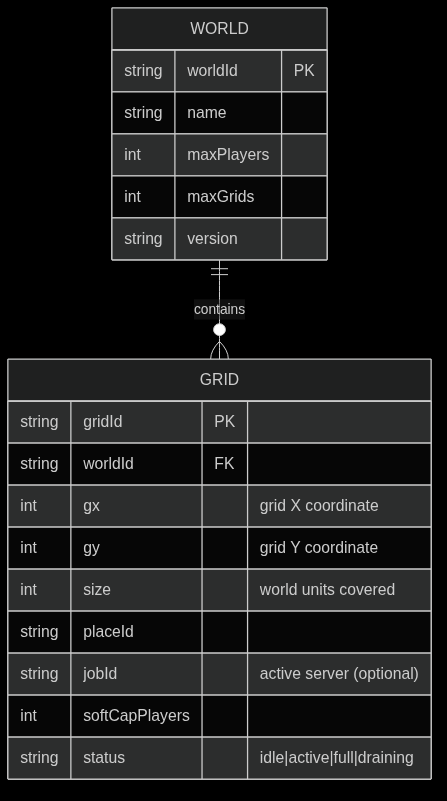
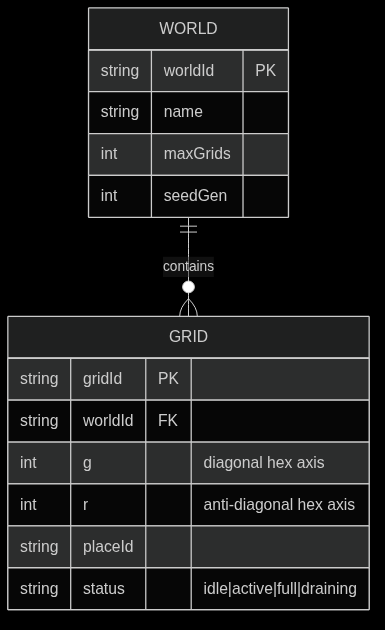
add: added region, document math involved
change: map -> math

add: hugo exported

diff --git a/src/public/posts/roblox-grid-based-server-sharding-with-instancing/index.html b/src/public/posts/roblox-grid-based-server-sharding-with-instancing/index.html
@@ -21,12 +21,14 @@ Technical Implementation
 
 Roblox API
 Basic World and Grids Model
-Region Spawning
+Data Store vs Memory Store
+Region
 
 
 
 
 
+Note: Post is In-Progress
 Motivation (Quick Bio-Story)
 I finally got my first part-time job (first ever) which is at The Coder School&rsquo;s Irvine location. My specialization as put on my resume would be coaching young students Roblox Scripting. It has been a while since I have done anything Roblox related (for more than 3 years). While I was away from Roblox, I developed much as a programmer because I learned general programming concepts, developing a web app, interacting with database, and now simultaneously trying to learn about microcontrollers because I want to touch embedded systems in the future. In the intermission between my first and second quarter at UC Irvine, I decided I wanted to implement a feature in Roblox, which would wash away the Roblox&rsquo;s rust so that I am able to fulfill my job well with ease. Beyond, that, I have a great idea for a Roblox game based on my favorite game on Roblox, Empire Clash.">
 <meta name="author" content="Vu Huy Minh Pham">
@@ -171,7 +173,7 @@ I finally got my first part-time job (first ever) which is at The Coder School&r
     <h1 class="post-title entry-hint-parent">
       Roblox Non-Layered Grid-Based Server Sharding
     </h1>
-    <div class="post-meta"><span title='2025-12-14 10:19:00 -0800 PST'>December 14, 2025</span>&nbsp;·&nbsp;5 min&nbsp;·&nbsp;Vu Huy Minh Pham
+    <div class="post-meta"><span title='2025-12-14 10:19:00 -0800 PST'>December 14, 2025</span>&nbsp;·&nbsp;8 min&nbsp;·&nbsp;Vu Huy Minh Pham
 
 </div>
   </header> 
@@ -189,12 +191,14 @@ I finally got my first part-time job (first ever) which is at The Coder School&r
 <ul>
 <li><a href="#roblox-api">Roblox API</a></li>
 <li><a href="#basic-world-and-grids-model">Basic World and Grids Model</a></li>
-<li><a href="#region-spawning">Region Spawning</a></li>
+<li><a href="#data-store-vs-memory-store">Data Store vs Memory Store</a></li>
+<li><a href="#region">Region</a></li>
 </ul>
 </li>
 </ul>
 </div>
 <!--endtoc-->
+<p>Note: Post is In-Progress</p>
 <h2 id="motivation--quick-bio-story">Motivation (Quick Bio-Story)<a hidden class="anchor" aria-hidden="true" href="#motivation--quick-bio-story">#</a></h2>
 <p>I finally got my first part-time job (first ever) which is at <em>The Coder School</em>&rsquo;s Irvine location. My specialization as put on my resume would be coaching young students Roblox Scripting. It has been a while since I have done anything Roblox related (for more than 3 years). While I was away from Roblox, I developed much as a programmer because I learned general programming concepts, developing a web app, interacting with database, and now simultaneously trying to learn about microcontrollers because I want to touch embedded systems in the future. In the intermission between my first and second quarter at UC Irvine, I decided I wanted to implement a feature in Roblox, which would wash away the Roblox&rsquo;s rust so that I am able to fulfill my job well with ease. Beyond, that, I have a great idea for a Roblox game based on my favorite game on Roblox, Empire Clash.</p>
 <h2 id="what-is-server-sharding">What is Server Sharding?<a hidden class="anchor" aria-hidden="true" href="#what-is-server-sharding">#</a></h2>
@@ -218,7 +222,7 @@ Note that even though Foxhole&rsquo;s has designated region zones, they are not 
 <h2 id="technical-implementation">Technical Implementation<a hidden class="anchor" aria-hidden="true" href="#technical-implementation">#</a></h2>
 <p>That was all talk, let&rsquo;s get to doing.</p>
 <h3 id="roblox-api">Roblox API<a hidden class="anchor" aria-hidden="true" href="#roblox-api">#</a></h3>
-<p>First, let us see what the Roblox Engine offers. Because we are going to be using multiple servers, <a href="https://create.roblox.com/docs/reference/engine/classes/TeleportService">TeleportService</a> has to be used. Furthermore, the nature of Roblox servers do not allow us to keep a server running for more than a week. Therefore, state must be preserved. To do that, we have to use <a href="https://create.roblox.com/docs/reference/engine/classes/DataStoreService">DataStoreService</a>. Persistent state has to store the grid position of the server, as well as storing the server&rsquo;s state later down the line (e.g. objects/landmarks placed down by players later).</p>
+<p>First, let us see what the Roblox Engine offers. Because we are going to be using multiple servers, <a href="https://create.roblox.com/docs/reference/engine/classes/TeleportService">TeleportService</a> has to be used. Furthermore, the nature of Roblox servers do not allow us to keep a server running for more than a week. Therefore, state must be preserved. To do that, we have to use <a href="https://create.roblox.com/docs/reference/engine/classes/DataStoreService">DataStoreService</a> for storing the server&rsquo;s state later down the line (e.g. objects/landmarks placed down by players later). Alongside DataStoreService, <a href="https://create.roblox.com/docs/cloud-services/memory-stores">MemoryStoreService</a> should also be used for cross server operations like storing grids as well as caching while the server is still running.</p>
 <h3 id="basic-world-and-grids-model">Basic World and Grids Model<a hidden class="anchor" aria-hidden="true" href="#basic-world-and-grids-model">#</a></h3>
 <p>This model assumes that the grids share the same place / code, only differeing in procedural generation and data saved. Physically, of course the World does not exist in the game, it is merely a conceptual classifier for a collection of regions with necessary properties stored. As for the regions they will have several properties needed to be stored in the data store.</p>
 <figure>
@@ -246,9 +250,120 @@ Note that even though Foxhole&rsquo;s has designated region zones, they are not 
 </ol>
 </li>
 </ul>
-<h3 id="region-spawning">Region Spawning<a hidden class="anchor" aria-hidden="true" href="#region-spawning">#</a></h3>
-<p>What if two players approach a new region grid? What if they create two different places? This is a classic race condition issue.</p>
-<p>This entry is still in progress. Come back later!</p>
+<h3 id="data-store-vs-memory-store">Data Store vs Memory Store<a hidden class="anchor" aria-hidden="true" href="#data-store-vs-memory-store">#</a></h3>
+<p>Data Store should only be updated very sparingly. Memory Store is used as caching for cross-server operations. They&rsquo;ll be used according to the design. So let&rsquo;s get started.</p>
+<h3 id="region">Region<a hidden class="anchor" aria-hidden="true" href="#region">#</a></h3>
+<p>What if two players approach a new region grid? What if they create two different places? This is a classic race condition issue. Well, in MemoryStore, we could create a sorted map to store regions that are locked.</p>
+<h4 id="task-list">Task List<a hidden class="anchor" aria-hidden="true" href="#task-list">#</a></h4>
+<p>This is where we get to implement world and region model. Here is a task list:</p>
+<ol>
+<li><input disabled="" type="checkbox"> DataStore → setup persisent values like worldID, gridID, gx, gy. These values shouldn&rsquo;t be updated regularly.</li>
+<li><input disabled="" type="checkbox"> MemoryStore → Region locking (preliminary setup)</li>
+<li><input disabled="" type="checkbox"> Implement region crossing math, get q and r in axial coordinates.</li>
+<li><input disabled="" type="checkbox"> From one region, make it so when the user goes to a certain bound approaching another grid, they ask to teleport and/or create that new grid.</li>
+<li><input disabled="" type="checkbox"> Pass the player&rsquo;s position put them at the position most sensible in the new region.</li>
+</ol>
+<h4 id="geometry">Geometry<a hidden class="anchor" aria-hidden="true" href="#geometry">#</a></h4>
+<p>This project will implement the hexagonal system that FoxHole has.</p>
+<ul>
+<li>q axis goes ↘ / ↖</li>
+<li>r axis goes ↙ / ↗</li>
+</ul>
+<p>Hence these the hexagon&rsquo;s neighbors:</p>
+<pre tabindex="0"><code class="language-nil" data-lang="nil">(q+1, r)
+(q+1, r-1)
+(q,   r-1)
+(q-1, r)
+(q-1, r+1)
+(q,   r+1)
+</code></pre><p>We are using the Axial Coordinates system to organize the different server regions:
+<img loading="lazy" src="/ox-hugo/hex-axial-coordinate-system.png">
+Knowing what region the player has crossed to will be a problem to be solved.</p>
+<h4 id="the-math-for-region-crossing">The Math for Region Crossing<a hidden class="anchor" aria-hidden="true" href="#the-math-for-region-crossing">#</a></h4>
+<p>Goal: We want to know whether the player has passed to another region or not (and hence they should be teleported). And as well for routing, we need to know the direction of crossing.</p>
+<p>Thankfully, a lot of this math can be generated by AI. Here are the steps I learned from prompt engineering:</p>
+<!--list-separator-->
+<ul>
+<li>
+<p>Step 1</p>
+<p>Converting player world position to fractional axis.</p>
+<p>Let \(s\) be the radius of each hexagonal grid.</p>
+<p>\(q_f = \frac{\sqrt{3}}{3} \frac{x}{s} - \frac{1}{3} \frac{z}{s}\)</p>
+<p>\(r_f = \frac{2}{3} \frac{z}{s}\)</p>
+</li>
+</ul>
+<!--list-separator-->
+<ul>
+<li>
+<p>Step 2</p>
+<p>Fractional axis → Fractional cube
+\(x_f = q_f\)</p>
+<p>\(z_f = r_f\)</p>
+<p>\(y_f = -x_f - z_f\)</p>
+<p>Such that: \(x_f + y_f + z_f = 0\)</p>
+</li>
+</ul>
+<!--list-separator-->
+<ul>
+<li>
+<p>Step 3</p>
+ <!--list-separator-->
+<ul>
+<li>
+<p>Cube rounding and constraint enforcing</p>
+<p>\(r_x = round(x_f)\),
+\(r_y = round(y_f)\),
+\(r_z = round(z_f)\)</p>
+</li>
+</ul>
+ <!--list-separator-->
+<ul>
+<li>
+<p>Our errors:</p>
+<p>\(d_x = |r_x - x_f|\),
+\(d_y = |r_y - y_f|\),
+\(d_z = |r_z - y_z|\)</p>
+</li>
+</ul>
+ <!--list-separator-->
+<ul>
+<li>
+<p>Constraint enforcement</p>
+<ul>
+<li>If \(d_x &gt; d_y\) and \(d_x &gt; d_z\): \(r_x = -r_y - r_z\)</li>
+<li>Else if \(d_y &gt; d_x\) and \(d_y &gt; d_z\): \(r_y = -r_x - r_z\)</li>
+<li>Else: \(r_z = -r_x - r_y\)</li>
+<li>This enforces the constraint: \(r_x + r_y + r_z = 0\)</li>
+</ul>
+</li>
+</ul>
+</li>
+</ul>
+<!--list-separator-->
+<ul>
+<li>
+<p>Step 4</p>
+<p>Cube → Axial
+We&rsquo;ll just drop the hidden axis:
+\(q = r_x\)
+\(r = r_z\)</p>
+</li>
+</ul>
+<!--list-separator-->
+<ul>
+<li>
+<p>Region Crossing Check</p>
+<p>Let world&rsquo;s region be \((0, 0)\).
+Player entered a new region if the one axial coordinate component from step 4 does not match 0.</p>
+</li>
+</ul>
+<!--list-separator-->
+<ul>
+<li>
+<p>Neighbor Delta</p>
+<p>The neighbor delta is the axial coordinate returned from step 4. Add neighbor delta to the current world&rsquo;s gridX, gridY and we&rsquo;ll get the new grid.</p>
+</li>
+</ul>
 
 
   </div>

diff --git a/src/public/posts/index.html b/src/public/posts/index.html
@@ -156,10 +156,11 @@
     </h2>
   </header>
   <div class="entry-content">
-    <p> Table of Contents Motivation (Quick Bio-Story) What is Server Sharding? Let’s Clarify Our Terms, Borrowing Foxhole’s What Kind of Game Can You Make on Roblox with Grid-Based Server Sharding? Technical Implementation Roblox API Basic World and Grids Model Region Spawning Motivation (Quick Bio-Story) I finally got my first part-time job (first ever) which is at The Coder School’s Irvine location. My specialization as put on my resume would be coaching young students Roblox Scripting. It has been a while since I have done anything Roblox related (for more than 3 years). While I was away from Roblox, I developed much as a programmer because I learned general programming concepts, developing a web app, interacting with database, and now simultaneously trying to learn about microcontrollers because I want to touch embedded systems in the future. In the intermission between my first and second quarter at UC Irvine, I decided I wanted to implement a feature in Roblox, which would wash away the Roblox’s rust so that I am able to fulfill my job well with ease. Beyond, that, I have a great idea for a Roblox game based on my favorite game on Roblox, Empire Clash.
+    <p> Table of Contents Motivation (Quick Bio-Story) What is Server Sharding? Let’s Clarify Our Terms, Borrowing Foxhole’s What Kind of Game Can You Make on Roblox with Grid-Based Server Sharding? Technical Implementation Roblox API Basic World and Grids Model Data Store vs Memory Store Region Note: Post is In-Progress
+Motivation (Quick Bio-Story) I finally got my first part-time job (first ever) which is at The Coder School’s Irvine location. My specialization as put on my resume would be coaching young students Roblox Scripting. It has been a while since I have done anything Roblox related (for more than 3 years). While I was away from Roblox, I developed much as a programmer because I learned general programming concepts, developing a web app, interacting with database, and now simultaneously trying to learn about microcontrollers because I want to touch embedded systems in the future. In the intermission between my first and second quarter at UC Irvine, I decided I wanted to implement a feature in Roblox, which would wash away the Roblox’s rust so that I am able to fulfill my job well with ease. Beyond, that, I have a great idea for a Roblox game based on my favorite game on Roblox, Empire Clash.
 ...</p>
   </div>
-  <footer class="entry-footer"><span title='2025-12-14 10:19:00 -0800 PST'>December 14, 2025</span>&nbsp;·&nbsp;5 min&nbsp;·&nbsp;Vu Huy Minh Pham</footer>
+  <footer class="entry-footer"><span title='2025-12-14 10:19:00 -0800 PST'>December 14, 2025</span>&nbsp;·&nbsp;8 min&nbsp;·&nbsp;Vu Huy Minh Pham</footer>
   <a class="entry-link" aria-label="post link to Roblox Non-Layered Grid-Based Server Sharding" href="http://localhost:1313/posts/roblox-grid-based-server-sharding-with-instancing/"></a>
 </article>
 

diff --git a/src/public/posts/my-ap-physics-ii-prep-2024/index.html b/src/public/posts/my-ap-physics-ii-prep-2024/index.html
@@ -231,7 +231,7 @@ I think I should attend the review session this weekend and just do a mock exam.
 <h2 id="units">Units<a hidden class="anchor" aria-hidden="true" href="#units">#</a></h2>
 <h3 id="unit-12-magnetism-and-electromagnetism">Unit 12: Magnetism and Electromagnetism<a hidden class="anchor" aria-hidden="true" href="#unit-12-magnetism-and-electromagnetism">#</a></h3>
 <ul>
-<li>Albert: <a href="#d41d8c">#4 Electromagnetism Albert</a></li>
+<li>Albert: <a href="">#4 Electromagnetism Albert</a></li>
 </ul>
 <h4 id="core-concepts">Core Concepts<a hidden class="anchor" aria-hidden="true" href="#core-concepts">#</a></h4>
 <ul>

diff --git a/src/content/posts/Roblox Grid-Based Server Sharding with Instancing.md b/src/content/posts/Roblox Grid-Based Server Sharding with Instancing.md
@@ -15,10 +15,13 @@ draft = false
 - [Technical Implementation](#technical-implementation)
     - [Roblox API](#roblox-api)
     - [Basic World and Grids Model](#basic-world-and-grids-model)
-    - [Region Spawning](#region-spawning)
+    - [Data Store vs Memory Store](#data-store-vs-memory-store)
+    - [Region](#region)
 
 </div>
 <!--endtoc-->
+
+Note: Post is In-Progress
 
 
 ## Motivation (Quick Bio-Story) {#motivation--quick-bio-story}
@@ -59,7 +62,7 @@ That was all talk, let's get to doing.
 
 ### Roblox API {#roblox-api}
 
-First, let us see what the Roblox Engine offers. Because we are going to be using multiple servers, [TeleportService](https://create.roblox.com/docs/reference/engine/classes/TeleportService) has to be used. Furthermore, the nature of Roblox servers do not allow us to keep a server running for more than a week. Therefore, state must be preserved. To do that, we have to use [DataStoreService](https://create.roblox.com/docs/reference/engine/classes/DataStoreService). Persistent state has to store the grid position of the server, as well as storing the server's state later down the line (e.g. objects/landmarks placed down by players later).
+First, let us see what the Roblox Engine offers. Because we are going to be using multiple servers, [TeleportService](https://create.roblox.com/docs/reference/engine/classes/TeleportService) has to be used. Furthermore, the nature of Roblox servers do not allow us to keep a server running for more than a week. Therefore, state must be preserved. To do that, we have to use [DataStoreService](https://create.roblox.com/docs/reference/engine/classes/DataStoreService) for storing the server's state later down the line (e.g. objects/landmarks placed down by players later). Alongside DataStoreService, [MemoryStoreService](https://create.roblox.com/docs/cloud-services/memory-stores) should also be used for cross server operations like storing grids as well as caching while the server is still running.
 
 
 ### Basic World and Grids Model {#basic-world-and-grids-model}
@@ -89,8 +92,128 @@ Note that each region have to be soft-capped, which means that if the server cap
     4.  idle &rarr; data exists but no server running &rarr; needs to start new one when a player walk to grid.
 
 
-### Region Spawning {#region-spawning}
+### Data Store vs Memory Store {#data-store-vs-memory-store}
 
-What if two players approach a new region grid? What if they create two different places? This is a classic race condition issue.
+Data Store should only be updated very sparingly. Memory Store is used as caching for cross-server operations. They'll be used according to the design. So let's get started.
 
-This entry is still in progress. Come back later!
+
+### Region {#region}
+
+What if two players approach a new region grid? What if they create two different places? This is a classic race condition issue. Well, in MemoryStore, we could create a sorted map to store regions that are locked.
+
+
+#### Task List {#task-list}
+
+This is where we get to implement world and region model. Here is a task list:
+
+1.  [ ] DataStore &rarr; setup persisent values like worldID, gridID, gx, gy. These values shouldn't be updated regularly.
+2.  [ ] MemoryStore &rarr; Region locking (preliminary setup)
+3.  [ ] Implement region crossing math, get q and r in axial coordinates.
+4.  [ ] From one region, make it so when the user goes to a certain bound approaching another grid, they ask to teleport and/or create that new grid.
+5.  [ ] Pass the player's position put them at the position most sensible in the new region.
+
+
+#### Geometry {#geometry}
+
+This project will implement the hexagonal system that FoxHole has.
+
+-   q axis goes ↘ / ↖
+-   r axis goes ↙ / ↗
+
+Hence these the hexagon's neighbors:
+
+```nil
+(q+1, r)
+(q+1, r-1)
+(q,   r-1)
+(q-1, r)
+(q-1, r+1)
+(q,   r+1)
+```
+
+We are using the Axial Coordinates system to organize the different server regions:
+![](/ox-hugo/hex-axial-coordinate-system.png)
+Knowing what region the player has crossed to will be a problem to be solved.
+
+
+#### The Math for Region Crossing {#the-math-for-region-crossing}
+
+Goal: We want to know whether the player has passed to another region or not (and hence they should be teleported). And as well for routing, we need to know the direction of crossing.
+
+Thankfully, a lot of this math can be generated by AI. Here are the steps I learned from prompt engineering:
+
+<!--list-separator-->
+
+-  Step 1
+
+    Converting player world position to fractional axis.
+
+    Let \\(s\\) be the radius of each hexagonal grid.
+
+    \\(q\_f = \frac{\sqrt{3}}{3} \frac{x}{s} - \frac{1}{3} \frac{z}{s}\\)
+
+    \\(r\_f = \frac{2}{3} \frac{z}{s}\\)
+
+<!--list-separator-->
+
+-  Step 2
+
+    Fractional axis &rarr; Fractional cube
+    \\(x\_f = q\_f\\)
+
+    \\(z\_f = r\_f\\)
+
+    \\(y\_f = -x\_f - z\_f\\)
+
+    Such that: \\(x\_f + y\_f + z\_f = 0\\)
+
+<!--list-separator-->
+
+-  Step 3
+
+    <!--list-separator-->
+
+    -  Cube rounding and constraint enforcing
+
+        \\(r\_x = round(x\_f)\\),
+        \\(r\_y = round(y\_f)\\),
+        \\(r\_z = round(z\_f)\\)
+
+    <!--list-separator-->
+
+    -  Our errors:
+
+        \\(d\_x = |r\_x - x\_f|\\),
+        \\(d\_y = |r\_y - y\_f|\\),
+        \\(d\_z = |r\_z - y\_z|\\)
+
+    <!--list-separator-->
+
+    -  Constraint enforcement
+
+        -   If \\(d\_x > d\_y\\) and \\(d\_x > d\_z\\): \\(r\_x = -r\_y - r\_z\\)
+        -   Else if \\(d\_y > d\_x\\) and \\(d\_y > d\_z\\): \\(r\_y = -r\_x - r\_z\\)
+        -   Else: \\(r\_z = -r\_x - r\_y\\)
+        -   This enforces the constraint: \\(r\_x + r\_y + r\_z = 0\\)
+
+<!--list-separator-->
+
+-  Step 4
+
+    Cube &rarr; Axial
+    We'll just drop the hidden axis:
+    \\(q = r\_x\\)
+    \\(r = r\_z\\)
+
+<!--list-separator-->
+
+-  Region Crossing Check
+
+    Let world's region be \\((0, 0)\\).
+    Player entered a new region if the one axial coordinate component from step 4 does not match 0.
+
+<!--list-separator-->
+
+-  Neighbor Delta
+
+    The neighbor delta is the axial coordinate returned from step 4. Add neighbor delta to the current world's gridX, gridY and we'll get the new grid.

diff --git a/src/content/posts/My AP Physics II Prep 2024.md b/src/content/posts/My AP Physics II Prep 2024.md
@@ -59,7 +59,7 @@ I think I should attend the review session this weekend and just do a mock exam.
 
 ### Unit 12: Magnetism and Electromagnetism {#unit-12-magnetism-and-electromagnetism}
 
--   Albert: [#4 Electromagnetism Albert]({{< relref "#d41d8c" >}})
+-   Albert: [#4 Electromagnetism Albert]({{< relref "../../../../../org-roam/20250322093904-4_electromagnetism_albert.md" >}})
 
 
 #### Core Concepts {#core-concepts}
